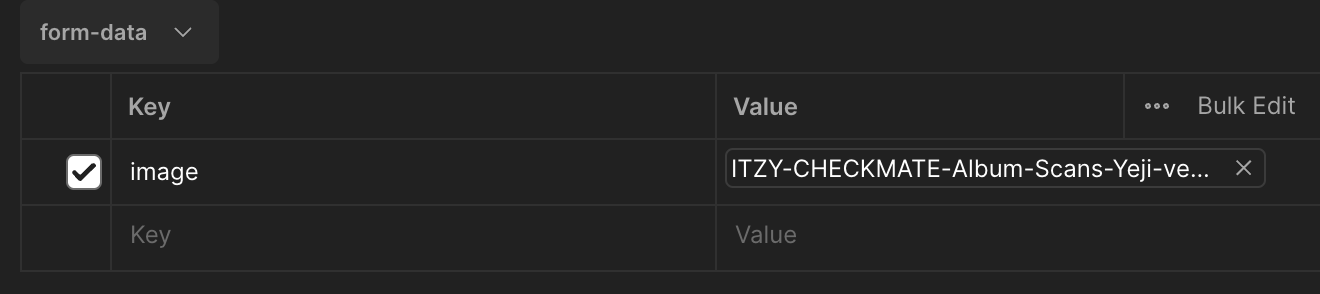
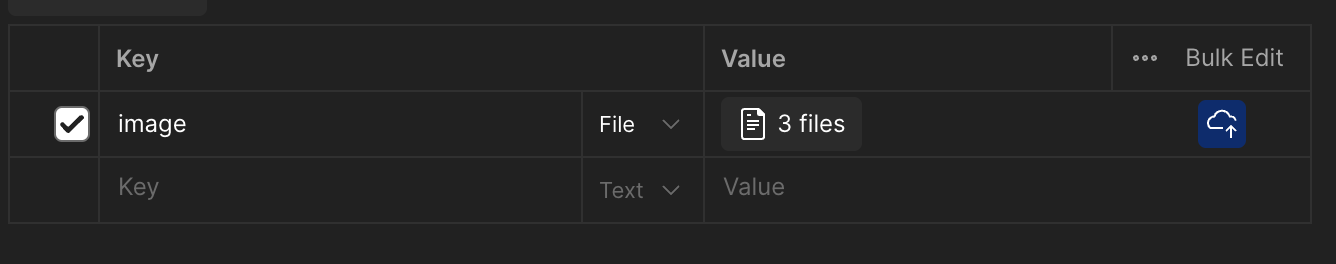
Now each requests can handling multiple image files (except Face Verification Endpoint)

diff --git a/app/routers/face_routers.py b/app/routers/face_routers.py
@@ -1,5 +1,5 @@
 import logging
-from flask import Blueprint, request
+from flask import Blueprint, request, jsonify
 from app.handle.app_error import FileUnreachable
 from app.services.face.face_detection_services import FaceLocationDetection
 from app.services.face.face_landmarks_sevices import FaceLandmarksDetection
@@ -11,42 +11,59 @@ from app.services.face.facial_attribute_recognition_services import FacialAttrib
 face_router = Blueprint('face_router', __name__)
 
 
-# Route for face location
+
 @face_router.route('/face_location', methods=['POST'])
 def request_face_location():
     try:
-        image_file = request.files['image']  # Access the uploaded file
+        image_files = request.files.getlist('image')  # Access the list of uploaded files
     except Exception:
         logging.error(FileUnreachable())
         raise FileUnreachable
+
+    results = []
+
     face_detector = FaceLocationDetection()
-    face_result = face_detector.get_face_location(image_file)
-    return face_result
+    for image_file in image_files:
+        face_result = face_detector.get_face_location(image_file)
+        results.append(face_result.get_json())  # Extract JSON content from each response
+
+    return jsonify(results)
 
 
 # Route for face landmarks
 @face_router.route('/face_landmarks', methods=['POST'])
 def request_face_landmarks():
     try:
-        image_file = request.files['image']  # Access the uploaded file
+        image_files = request.files.getlist('image')  # Access the list of uploaded files
     except Exception:
         logging.error(FileUnreachable())
         raise FileUnreachable
+
+    results = []
+
     face_landmarks = FaceLandmarksDetection()
-    landmarks_result = face_landmarks.get_face_landmarks(image_file)
-    return landmarks_result
+    for image_file in image_files:
+        landmarks_result = face_landmarks.get_face_landmarks(image_file)
+        results.append(landmarks_result.get_json())  # Extract JSON content from each response
+    return jsonify(results)
 
 
 @face_router.route('/facial_attribute_recognition', methods=['POST'])
 def request_facial_attribute_recognition():
     try:
-        image_file = request.files['image']  # Access the uploaded file
+        image_files = request.files.getlist('image')  # Access the list of uploaded files
     except Exception:
         logging.error(FileUnreachable())
         raise FileUnreachable
+
+    results = []
+
     face_facial_attribute = FacialAttributeRecognition()
-    facial_attribute_result = face_facial_attribute.get_facial_attribute_recognition(image_file)
-    return facial_attribute_result
+    for image_file in image_files:
+        facial_attribute_result = face_facial_attribute.get_facial_attribute_recognition(image_file)
+        results.append(facial_attribute_result.get_json())  # Extract JSON content from each response
+    return jsonify(results)
+
 
 
 @face_router.route('/face_verify', methods=['POST'])
@@ -65,10 +82,16 @@ def request_face_verification():
 @face_router.route('/face_name_recognition', methods=['POST'])
 def request_name_recognition():
     try:
-        image_file = request.files['image']  # Access the uploaded file
+        image_files = request.files.getlist('image')  # Access the list of uploaded files
     except Exception:
         logging.error(FileUnreachable())
         raise FileUnreachable
-    name_recognition = NameRecognition()
-    name_recognition_result = name_recognition.get_face_name_recognition(image_file)
-    return name_recognition_result
+
+    name_recognition = NameRecognition()  # Create a single instance
+
+    results = []
+
+    for image_file in image_files:
+        name_recognition_result = name_recognition.get_face_name_recognition(image_file)
+        results.append(name_recognition_result.get_json())  # Extract JSON content from each response
+    return jsonify(results)

diff --git a/app/routers/multiple_objects_detection_routers.py b/app/routers/multiple_objects_detection_routers.py
@@ -1,5 +1,5 @@
 import logging
-from flask import Blueprint, request
+from flask import Blueprint, request, jsonify
 from app.handle.app_error import FileUnreachable
 from app.services.objects.multiple_objects_detection_services import MultipleObjectDetection
 
@@ -11,10 +11,17 @@ multiple_objects_router = Blueprint('multiple_object_router', __name__)
 @multiple_objects_router.route('/m_object_location', methods=['POST'])
 def request_objects_location():
     try:
-        image_file = request.files['image']  # Access the uploaded file
+        image_files = request.files.getlist('image')  # Access the list of uploaded files
     except Exception:
         logging.error(FileUnreachable())
         raise FileUnreachable
+
+    results = []
+
     objects_location = MultipleObjectDetection()
-    objects_result = objects_location.get_objects_location(image_file)
-    return objects_result
+    for image_file in image_files:
+        objects_result = objects_location.get_objects_location(image_file)
+        results.append(objects_result.get_json())  # Extract JSON content from each response
+
+    return jsonify(results)
+

diff --git a/app/routers/human_detection_routers.py b/app/routers/human_detection_routers.py
@@ -1,5 +1,5 @@
 import logging
-from flask import Blueprint, request
+from flask import Blueprint, request, jsonify
 from app.handle.app_error import FileUnreachable
 from app.services.objects.human_detection_services import HumanDetection
 
@@ -11,10 +11,17 @@ objects_router = Blueprint('object_router', __name__)
 @objects_router.route('/human_location', methods=['POST'])
 def request_human_location():
     try:
-        image_file = request.files['image']  # Access the uploaded file
+        image_files = request.files.getlist('image')  # Access the list of uploaded files
     except Exception:
         logging.error(FileUnreachable())
         raise FileUnreachable
+
+    results = []
+
     human_location = HumanDetection()
-    human_result = human_location.get_human_location(image_file)
-    return human_result
+    for image_file in image_files:
+        human_result = human_location.get_human_location(image_file)
+        results.append(human_result.get_json())  # Extract JSON content from each response
+
+    return jsonify(results)
+

diff --git a/README.md b/README.md
@@ -103,6 +103,8 @@
 - Use tools like `curl`, `Postman`, or your preferred HTTP client to send requests to the API endpoints.
   See the [Endpoint Usage](#endpoint-usage) for more information
 
+- Each requests can handling multiple image files (except [Face Verification Endpoint](#face-verification))
+
 ![Ảnh màn hình 2023-11-01 lúc 14.49.21.png](database/README.md%20image/API%20input.png)
 
 #### Sending Image Files
@@ -622,7 +624,7 @@
 - The level of accuracy can be configuring in `config.ini`, has 3 level of accuracy are `high`, `medium`
   and `low`
 - The image will save in the database when in `high` level of accuracy only
-- The elapsed time can be configuring at `recognition_elapsed_time` variable in `config.ini` (Minimum elapsed time by default is 75 seconds and up to 90 seconds (15 seconds added) if `high_distance`-`delta(-)`<`min_distance`<`high_distance`+`delta(+)`)
+- The elapsed time for each input image can be configuring at `recognition_elapsed_time` variable in `config.ini` (Minimum elapsed time by default is 75 seconds and up to 90 seconds for each image (15 seconds added) if `high_distance`-`delta(-)`<`min_distance`<`high_distance`+`delta(+)`)
 - Accuracy level rule:
   - `Low` level : `min_distance` < `medium_accuracy_recognition`
   - `Medium` level: `high_accuracy_recognition` < `min_distance` <= `medium_accuracy_recognition`
